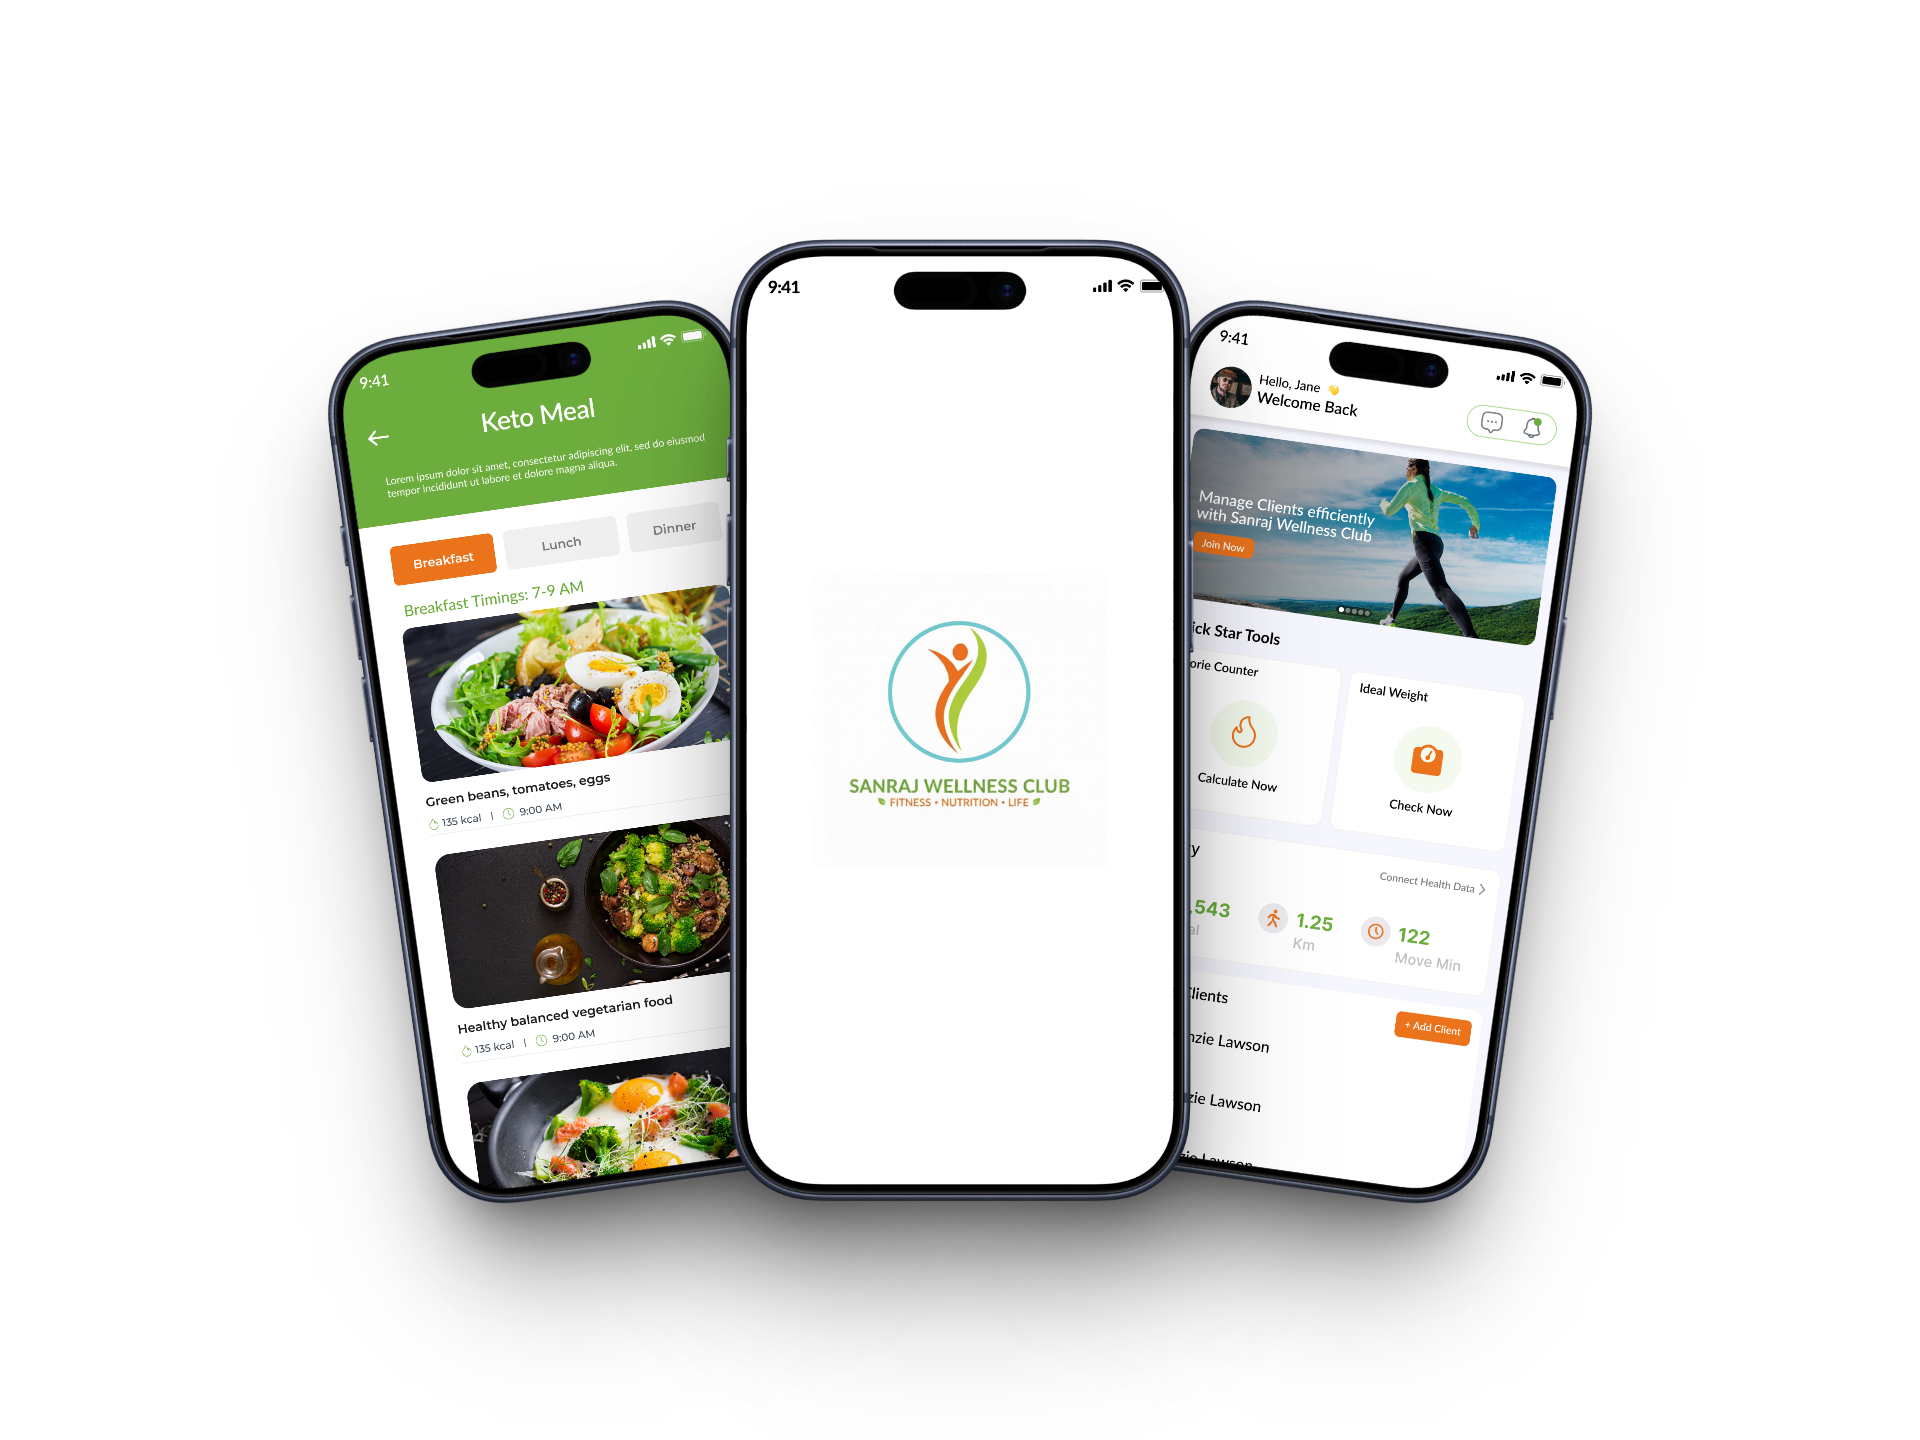
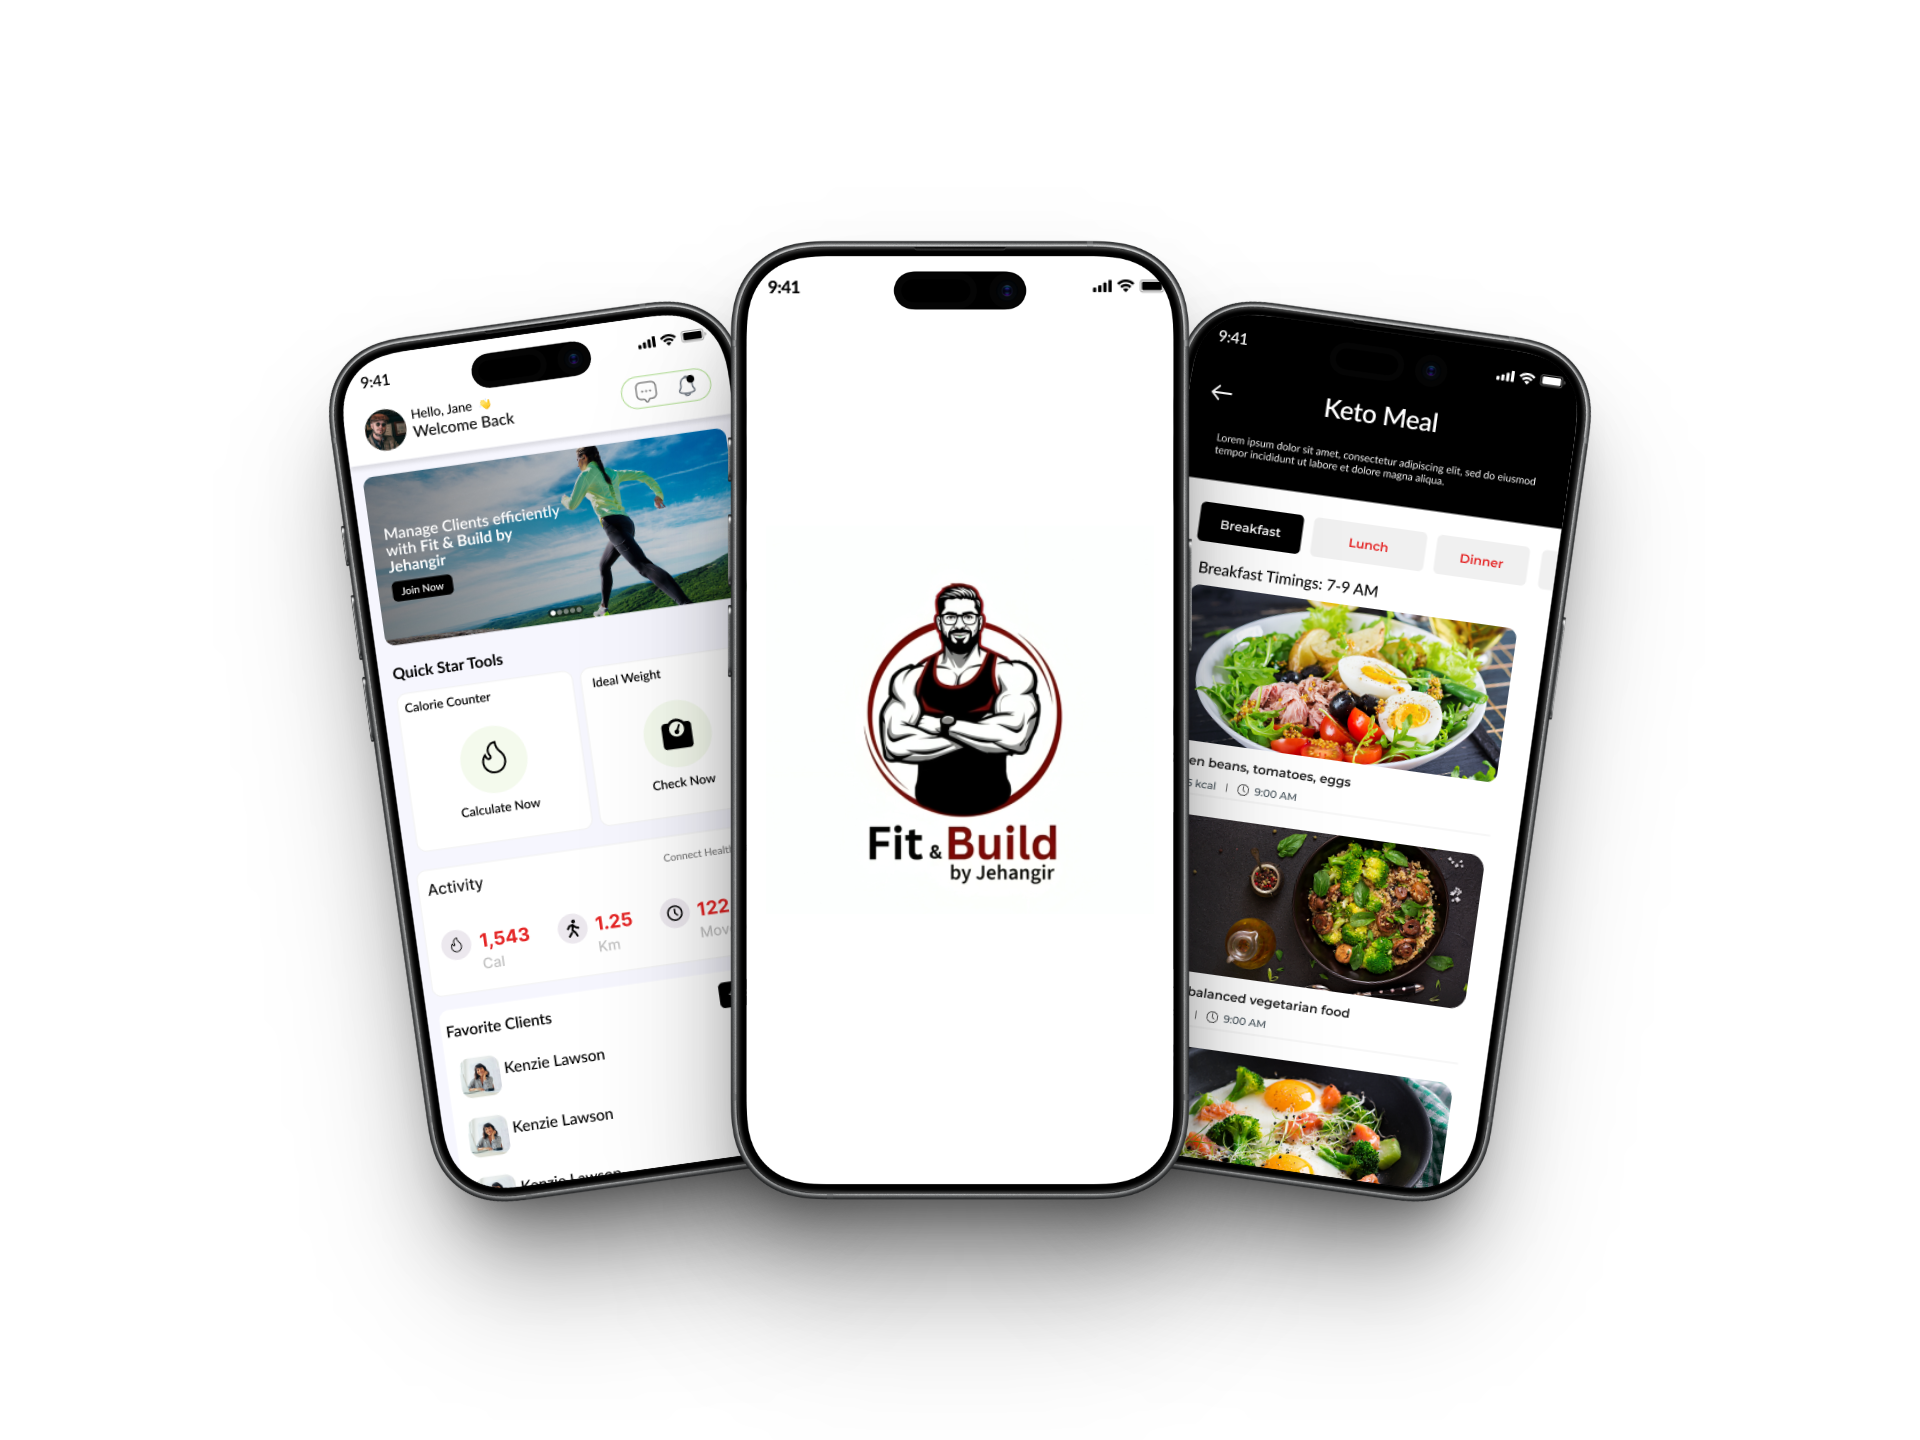
deeplinking

diff --git a/src/app/app/page.jsx b/src/app/app/page.jsx
@@ -2,28 +2,30 @@ import Image from "next/image";
 import Link from "next/link";
 
 export default function Page() {
-  return <section className="w-full bg-[url('/app_bg.png')] bg-cover min-h-screen bg-[#050504] relative flex justify-center items-center py-16 px-6 md:px-12 ">
-    <div className="flex flex-col xl:flex-row justify-between items-center h-full text-white gap-8 xl:gap-20">
-      <div className="xl:min-w-1/2 flex flex-col items-center xl:items-start xl:pl-6 md:mt-40 xl:mt-0 text-center xl:text-left">
-        <h1 className="text-2xl md:text-4xl lg:text-5xl xl:text-4xl font-bold mb-5">Download The <br /> <span className="text-4xl md:text-6xl lg:text-7xl xl:text-6xl">Fit&Build App</span></h1>
-        <p className="text-sm md:text-xl lg:text-3xl xl:text-xl mb-5 opacity-70 ">Begin your journey Towards build & fit</p>
+  return <section className="w-full min-h-screen bg-[url('/app_bg.png')] bg-center flex justify-center items-center py-[4rem] px-6 md:px-12 ">
+    <div className="flex flex-col lg:flex-row justify-between items-center h-full text-white gap-[2rem] lg:gap-[5rem]">
+      <div className="lg:min-w-1/2 flex flex-col items-center lg:items-start lg:pl-6 md:mt-[10rem] lg:mt-0 text-center lg:text-left">
+        <h1 className="text-[1.2rem] md:text-[1.5rem] lg:text-[3rem] font-bold lg:mb-12 lg:leading-[3.5rem] ">Download the <br />
+          <span className='md:text-[2.7rem] text-[2rem] lg:text-[3rem] text-white opacity-100'>The Fit & Build App</span>
+        </h1>
+        <p className="text-sm md:text-xl mb-5 opacity-70 ">Begin your journey Towards Making People Healthy</p>
         <div className="flex justify-between items-center gap-5 mb-5">
-          <Link href="https://play.google.com/store/apps/details?id=com.wellnessz.banne&pcampaignid=web_share" target="_blank">
-            <Image src="/playstore.png" alt="Google Store" width={500} height={400} className="cursor-pointer w-30 md:w-[10vw]" />
+          <Link href="https://play.google.com/store/apps/details?id=com.wellnessz.fitbuild&hl=en" target="_blank">
+            <Image src="/playstore.png" alt="Google Store" width={150} height={40} className="cursor-pointer" />
           </Link>
-          <Link href="https://apps.apple.com/us/app/wellnessz/id6478812964" target="_blank">
-            <Image src="/appStore.png" alt="App Store" width={500} height={400} className="cursor-pointer w-30 md:w-[10vw]" />
+          <Link href="https://apps.apple.com/dm/app/fit-build/id6757141469" target="_blank">
+            <Image src="/appStore.png" alt="App Store" width={150} height={60} className="cursor-pointer" />
           </Link>
         </div>
       </div>
 
       <div className="flex justify-center items-center mr-2 md:mr-12">
         <Image
-          src="/mockup.png"
-          alt="fit&build-app"
+          src="/client-assets/swc_app_mockup.png"
+          alt="SWC App Screens"
           width={900}
           height={900}
-          className="w-full self-center lg:max-w-4xl xl:w-lg 2xl:max-w-3xl object-contain" />
+          className="w-full self-center max-w-3xl object-contain" />
       </div>
     </div>
   </section>

diff --git a/src/app/app/[...slug]/page.jsx b/src/app/app/[...slug]/page.jsx
@@ -6,14 +6,14 @@ export default function Page() {
     <div className="flex flex-col lg:flex-row justify-between items-center h-full text-white gap-[2rem] lg:gap-[5rem]">
       <div className="lg:min-w-1/2 flex flex-col items-center lg:items-start lg:pl-6 md:mt-[10rem] lg:mt-0 text-center lg:text-left">
         <h1 className="text-[1.2rem] md:text-[1.5rem] lg:text-[3rem] font-bold lg:mb-12 lg:leading-[3.5rem] ">Download the <br />
-          <span className='md:text-[2.7rem] text-[2rem] lg:text-[3rem] text-white opacity-100'>The Zen Fit App</span>
+          <span className='md:text-[2.7rem] text-[2rem] lg:text-[3rem] text-white opacity-100'>The Fit & Build App</span>
         </h1>
         <p className="text-sm md:text-xl mb-5 opacity-70 ">Begin your journey Towards Making People Healthy</p>
         <div className="flex justify-between items-center gap-5 mb-5">
-          <Link href="https://play.google.com/store/apps/details?id=com.wellnessz.zenfit&hl=en-us" target="_blank">
+          <Link href="https://play.google.com/store/apps/details?id=com.wellnessz.fitbuild&hl=en" target="_blank">
             <Image src="/playstore.png" alt="Google Store" width={150} height={40} className="cursor-pointer" />
           </Link>
-          <Link href="https://apps.apple.com/us/app/zenfit-app/id6743387199" target="_blank">
+          <Link href="https://apps.apple.com/dm/app/fit-build/id6757141469" target="_blank">
             <Image src="/appStore.png" alt="App Store" width={150} height={60} className="cursor-pointer" />
           </Link>
         </div>
@@ -21,7 +21,7 @@ export default function Page() {
 
       <div className="flex justify-center items-center mr-2 md:mr-12">
         <Image
-          src="/swc_app_mockup.png"
+          src="/client-assets/swc_app_mockup.png"
           alt="SWC App Screens"
           width={900}
           height={900}

diff --git a/src/app/middleware.js b/src/app/middleware.js
@@ -1,0 +1,33 @@
+import { NextResponse } from 'next/server';
+
+const PLAY_STORE_URL =
+  'https://play.google.com/store/apps/details?id=com.wellnessz.fitbuild&hl=en';
+const APP_STORE_URL =
+  'https://apps.apple.com/dm/app/fit-build/id6757141469';
+
+const IOS_REGEX = /iPhone|iPad|iPod/i;
+const ANDROID_REGEX = /Android/i;
+
+export function middleware(request) {
+  const pathname = request.nextUrl.pathname;
+  if (!pathname.startsWith('/app')) {
+    return NextResponse.next();
+  }
+
+  const userAgent = request.headers.get('user-agent') || '';
+
+  if (IOS_REGEX.test(userAgent)) {
+    return NextResponse.redirect(APP_STORE_URL, { status: 302 });
+  }
+
+  if (ANDROID_REGEX.test(userAgent)) {
+    return NextResponse.redirect(PLAY_STORE_URL, { status: 302 });
+  }
+
+  return NextResponse.next();
+}
+
+export const config = {
+  matcher: ['/app/:path*'],
+};
+
